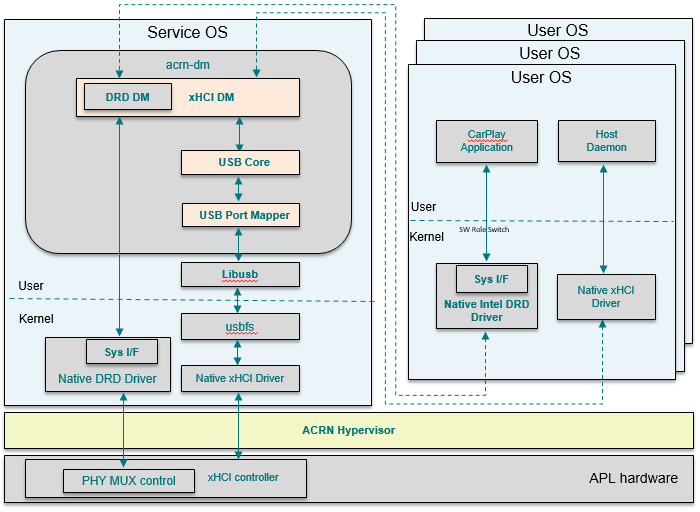
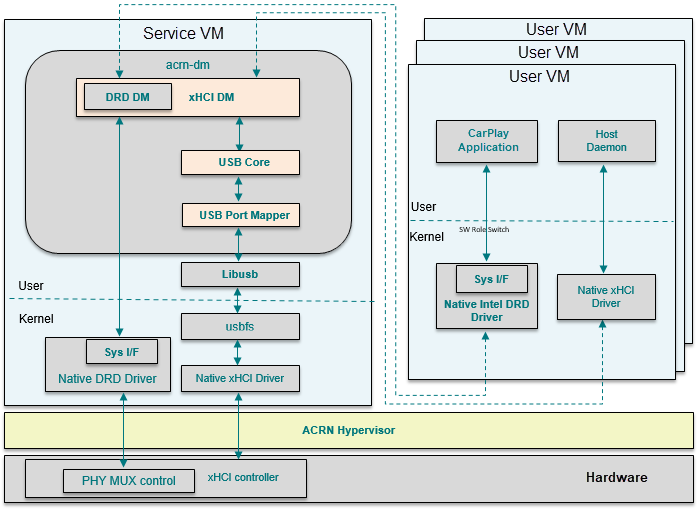
doc: terminology cleanup in usb doc
- Replace SOS or Service OS with Service VM
- Replace UOS or User OS with User VM
- Clean up some of the grammar

diff --git a/doc/developer-guides/hld/usb-virt-hld.rst b/doc/developer-guides/hld/usb-virt-hld.rst
@@ -12,7 +12,7 @@ and their peripheral devices.
    :align: center
    :name: usb-virt-arch
 
-   USB architecture overview
+   USB Architecture Overview
 
 
 The ACRN USB virtualization includes
@@ -21,54 +21,29 @@ emulation of three components, described here and shown in
 
 - **xHCI DM** (Host Controller Interface) provides multiple
   instances of virtual xHCI controllers to share among multiple User
-  OSes, each USB port can be assigned and dedicated to a VM by user
+  VMs, each USB port can be assigned and dedicated to a VM by user
   settings.
 
 - **xDCI controller** (Device Controller Interface)
   can be passed through to the
-  specific User OS with I/O MMU assistance.
+  specific User VM with I/O MMU assistance.
 
 - **DRD DM** (Dual Role Device) emulates the PHY MUX control
   logic. The sysfs interface in a User VM is used to trap the switch operation
-  into DM, and the the sysfs interface in the Service VM is used to operate on the physical
-  registers to switch between DCI and HCI role.
+  into DM, and the sysfs interface in the Service VM is used to operate on the
+  physical registers to switch between DCI and HCI role.
 
-  On Intel Apollo Lake platform, the sysfs interface path is
-  ``/sys/class/usb_role/intel_xhci_usb_sw/role``. If user echos string
-  ``device`` to role node, the usb phy will be connected with xDCI controller as
-  device mode. Similarly, by echoing ``host``, the usb phy will be
-  connected with xHCI controller as host mode.
+  On Apollo Lake platforms, the sysfs interface path is
+  ``/sys/class/usb_role/intel_xhci_usb_sw/role``. If the user echos the string
+  ``device`` to the role node, the USB PHY will be connected with the xDCI
+  controller as
+  device mode. Similarly, by echoing ``host``, the USB PHY will be
+  connected with the xHCI controller as host mode.
 
-An xHCI register access from a User VM will induce EPT trap from the User VM to
+An xHCI register access from a User VM will induce an EPT trap from the User VM
+to
 DM, and the xHCI DM or DRD DM will emulate hardware behaviors to make
 the subsystem run.
-
-USB Devices Supported by USB Mediator
-*************************************
-
-The following USB devices are supported for the WaaG and LaaG operating systems.
-
-+--------------+---------+---------+
-| Device       | WaaG OS | LaaG OS |
-+==============+=========+=========+
-| USB Storage  |   Y     |   Y     |
-+--------------+---------+---------+
-| USB Mouse    |   Y     |   Y     |
-+--------------+---------+---------+
-| USB Keyboard |   Y     |   Y     |
-+--------------+---------+---------+
-| USB Camera   |   Y     |   Y     |
-+--------------+---------+---------+
-| USB Headset  |   Y     |   Y     |
-+--------------+---------+---------+
-| USB Hub      |   Y     |   Y     |
-| (20 ports max|         |         |
-| per VM)      |         |         |
-+--------------+---------+---------+
-
-.. note::
-   The above information is current as of ACRN 1.4.
-
 
 USB Host Virtualization
 ***********************
@@ -80,28 +55,28 @@ USB host virtualization is implemented as shown in
    :align: center
    :name: xhci-dm-arch
 
-   xHCI DM software architecture
+   xHCI DM Software Architecture
 
-The yellow-colored components make up the ACRN USB stack supporting xHCI
+The following components make up the ACRN USB stack supporting xHCI
 DM:
 
-- **xHCI DM** emulates the xHCI controller logic following the xHCI spec;
+- **xHCI DM** emulates the xHCI controller logic following the xHCI spec.
 
 - **USB core** is a middle abstract layer to isolate the USB controller
   emulators and USB device emulators.
 
 - **USB Port Mapper** maps the specific native physical USB
-       ports to virtual USB ports. It communicate with
-       native USB ports though libusb.
+  ports to virtual USB ports. It communicates with
+  native USB ports though libusb.
 
 All the USB data buffers from a User VM are in the form of TRB
 (Transfer Request Blocks), according to xHCI spec. xHCI DM will fetch
 these data buffers when the related xHCI doorbell registers are set.
-These data will convert to *struct usb_data_xfer* and, through USB core,
-forward to the USB port mapper module which will communicate with native USB
+The data will convert to ``struct usb_data_xfer`` and, through USB core,
+forward to the USB port mapper module which will communicate with the native USB
 stack over libusb.
 
-The device model configuration command syntax for xHCI is as follows::
+The Device Model configuration command syntax for xHCI is as follows::
 
    -s <slot>,xhci,[bus1-port1,bus2-port2]
 
@@ -124,34 +99,34 @@ USB DRD (Dual Role Device) emulation works as shown in this figure:
 .. figure:: images/usb-image31.png
    :align: center
 
-   xHCI DRD DM software architecture
+   xHCI DRD DM Software Architecture
 
-ACRN emulates the DRD hardware logic of an Intel Apollo Lake platform to
-support the dual role requirement. The DRD feature is implemented as xHCI
+ACRN emulates the DRD hardware logic of an Apollo Lake platform to
+support the dual role requirement. The DRD feature is implemented as an xHCI
 vendor extended capability.  ACRN emulates
 the same way, so the native driver can be reused in a User VM. When a User VM DRD
-driver reads or writes the related xHCI extended registers, these access will
+driver reads or writes the related xHCI extended registers, these accesses will
 be captured by xHCI DM. xHCI DM uses the native DRD related
 sysfs interface to do the Host/Device mode switch operations.
 
-The device model configuration command syntax for xHCI DRD is as
+The Device Model configuration command syntax for xHCI DRD is as
 follows::
 
    -s <slot>,xhci,[bus1-port1,bus2-port2],cap=platform
 
 - *cap*: cap means virtual xHCI capability. This parameter
-       indicates virtual xHCI should emulate the named platform's xHCI
-       capabilities.
+  indicates virtual xHCI should emulate the named platform's xHCI
+  capabilities.
 
 A simple example::
 
    -s 7,xhci,1-2,2-2,cap=apl
 
 This configuration means the virtual xHCI should emulate xHCI
-capabilities for the Intel Apollo Lake platform, which supports DRD
+capabilities for the Apollo Lake platform, which supports the DRD
 feature.
 
 Interface Specification
 ***********************
 
-.. note:: reference doxygen-generated API content
+.. note:: Reference the Doxygen-generated API content.
